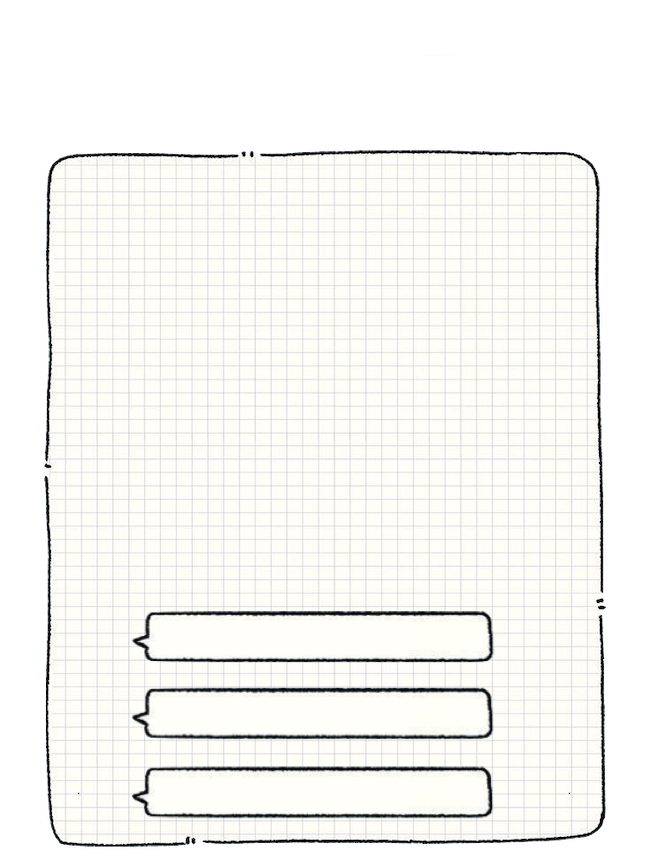
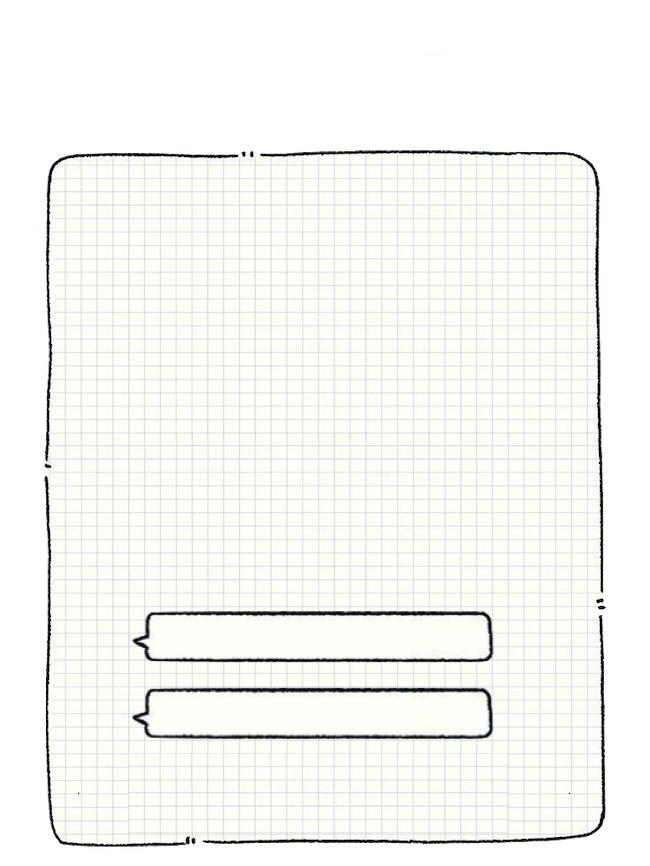
remove "carry limit"

Changed region(s): [[0.1846, 0.873, 0.7692, 0.9665]]

diff --git a/Group 5 Simulation/CustomizeWorld.java b/Group 5 Simulation/CustomizeWorld.java
@@ -46,10 +46,8 @@ public class CustomizeWorld extends World
         textBg.setFont(new Font(25)); //"FontName, bold, italic, size"
         textBg.drawString("Waiter Count", 140, 545);
         textBg.drawString("Waiter Speed", 140, 625);
-        textBg.drawString("Carry Limit", 150, 705);
         textBg.drawString("Waiter Count", 750, 545);
         textBg.drawString("Waiter Speed", 750, 625);
-        textBg.drawString("Carry Limit", 760, 705);
         
         // Left display 
         display1 = new CharacterDisplay(character1);